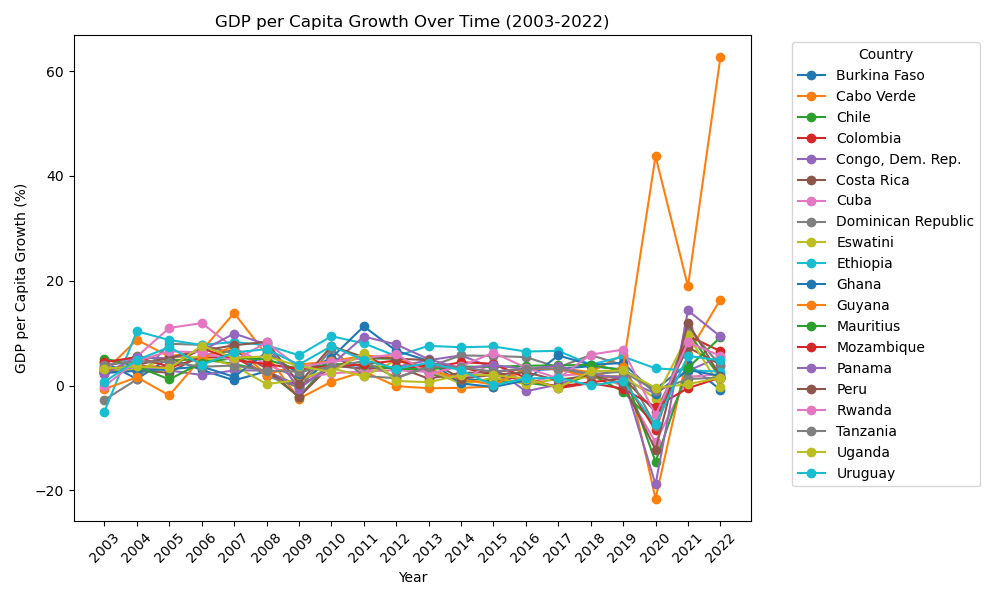
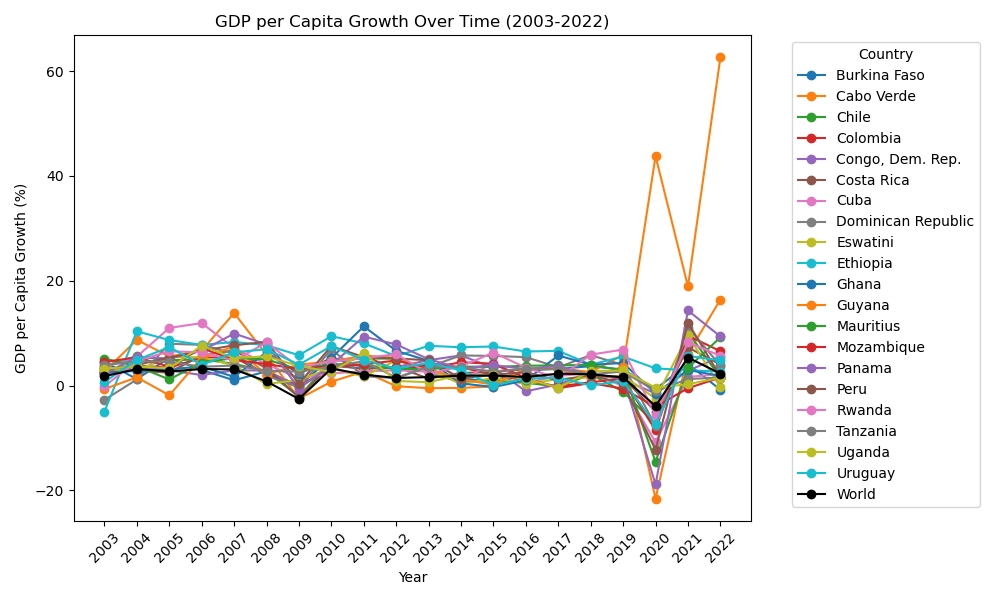
processing education data

diff --git a/scripts/process_enrollment.py b/scripts/process_enrollment.py
@@ -1,0 +1,115 @@
+import psycopg2
+import pandas as pd
+import matplotlib.pyplot as plt
+import os
+
+# Connect to the database
+conn = psycopg2.connect(
+        host='127.0.0.1',
+        port='5433',
+        database='postgres',
+        user='postgres',
+        password='tomas.36'
+    )
+cur = conn.cursor()
+
+years = range(2003, 2023)
+primary_cols = ",\n       ".join([f"COALESCE(MAX(CASE WHEN year = {y} THEN primary_enrollment END), ca.avg_primary) AS p{y}" for y in years])
+secondary_cols = ",\n       ".join([f"COALESCE(MAX(CASE WHEN year = {y} THEN secondary_enrollment END), ca.avg_secondary) AS s{y}" for y in years])
+
+final_query = f"""
+WITH country_avgs AS (
+    SELECT country_name,
+           AVG(primary_enrollment) AS avg_primary,
+           AVG(secondary_enrollment) AS avg_secondary
+    FROM education_data
+    WHERE year BETWEEN 2003 AND 2022
+    GROUP BY country_name
+)
+SELECT ed.country_name,
+       {primary_cols},
+       {secondary_cols}
+FROM education_data ed
+JOIN country_avgs ca ON ed.country_name = ca.country_name
+WHERE ed.year BETWEEN 2003 AND 2022
+GROUP BY ed.country_name, ca.avg_primary, ca.avg_secondary;
+"""
+
+cur.execute(final_query)
+rows = cur.fetchall()
+colnames = [desc[0] for desc in cur.description]
+
+# Convert to DataFrame
+df = pd.DataFrame(rows, columns=colnames)
+
+
+
+
+
+
+
+
+print(df, df.shape)
+
+
+# Determine how many years of data each country has.
+# A "year of data" is defined as having at least one non-null in pYYYY or sYYYY
+year_has_data = []
+for _, row in df.iterrows():
+    count = 0
+    for y in years:
+        p_col = f"p{y}"
+        s_col = f"s{y}"
+        # Check if at least one of pYYYY or sYYYY is non-null
+        if not (pd.isna(row[p_col]) and pd.isna(row[s_col])):
+            count += 1
+    year_has_data.append(count)
+
+df['years_of_data'] = year_has_data
+
+# Keep only countries with at least 15 years of data
+df = df[df['years_of_data'] >= 15].drop(columns='years_of_data')
+
+# 2. Forward fill missing values.
+# We need to forward fill along the timeline (2003 to 2022).
+# We'll do this separately for primary and secondary columns to avoid mixing them.
+
+primary_cols = [f"p{y}" for y in years]
+secondary_cols = [f"s{y}" for y in years]
+
+# Sort columns by year just to be sure they are in order (they likely are already)
+df = df[['country_name'] + primary_cols + secondary_cols]
+
+# Forward fill primary enrollment data row-wise
+# We'll apply a forward fill across columns for each row.
+def forward_fill_across_years(row, cols):
+    # We will iterate through the cols and if we find a NaN, fill with previous non-NaN
+    for i in range(1, len(cols)):
+        if pd.isna(row[cols[i]]):
+            row[cols[i]] = row[cols[i-1]]
+    return row
+
+df = df.apply(lambda r: forward_fill_across_years(r, primary_cols), axis=1)
+df = df.apply(lambda r: forward_fill_across_years(r, secondary_cols), axis=1)
+
+# The DataFrame now has forward-filled values for missing years, based on the previous year's value.
+
+# Note:
+# If the first year's data (e.g., p2003 or s2003) was missing, it won't get imputed since there's no previous year.
+# If you need to handle that case differently, you might consider dropping that country or using another imputation strategy.
+
+# At this point, 'df' contains only countries with >=15 years of data, and missing values within
+# those rows have been forward filled from previous years.
+
+# You can now proceed with additional analysis or saving the DataFrame.
+
+print(df)
+
+
+
+
+
+
+# Close the connection
+cur.close()
+conn.close()

diff --git a/scripts/get_growth_data.py b/scripts/get_growth_data.py
@@ -16,6 +16,7 @@ regions = ["SSF", "LCN"]  # Sub-Saharan Africa, Latin America & Caribbean
 # Get countries in Sub-Saharan Africa, Latin American and the Caribbean
 all_countries = get_countries()
 filtered_countries = [c['id'] for c in all_countries if c['region']['id'] in regions]
+filtered_countries.append('WLD')
 
 # Fetch data for the last 20 years for these countries using wbdata api
 data = wbdata.get_dataframe({indicator: 'value'}, country=filtered_countries, date=(datetime.datetime(start_year, 1, 1), datetime.datetime(end_year, 12, 31)))
@@ -30,10 +31,19 @@ data = data.apply(lambda row: row.fillna(row.mean()), axis=1)
 
 # Calculate the average growth over the time period for each country
 data['avg_growth_20yr'] = data.mean(axis=1)
+# Select the top 20 countries with the highest average growth, excluding 'WLD'
+top_20_df = data.drop('WLD', errors='ignore').nlargest(20, 'avg_growth_20yr')
 
-# Select the top 20 countries with the highest average growth and sort by the avg
-top_20_df = data.nlargest(20, 'avg_growth_20yr')
-top_20_df.sort_values(by = 'avg_growth_20yr', ascending=False, inplace=True)
+print(data)
+
+# Get 'WLD' data
+wld_data = data.loc[['World']]
+
+# Combine 'WLD' data with top 20 data
+top_20_df = pd.concat([top_20_df, wld_data])
+
+# Sort the DataFrame by 'avg_growth_20yr' in descending order
+top_20_df.sort_values(by='avg_growth_20yr', ascending=False, inplace=True)
 
 # Get the country code for the top 20 countries
 country_codes = {country['name']: country['id'] for country in all_countries}

diff --git a/scripts/growth_hist.py b/scripts/growth_hist.py
@@ -1,13 +1,22 @@
 import pandas as pd
-import os
 import matplotlib.pyplot as plt
 
+# Read the data
 data = pd.read_csv('data/gdp_growth_top20.csv')
+
+# Extract the global average (World)
+world_avg = data.loc[data['country'] == 'World', 'avg_growth_20yr'].values[0]
+
+# Filter out the 'World' row from the DataFrame so we only have the top 20 countries
+data_countries = data[data['country'] != 'World']
 
 fig, ax = plt.subplots(figsize=(12, 6))
 
-# Create a bar plot with countries on the x-axis and avg_growth_10yr on the y-axis
-ax.bar(data['country'], data['avg_growth_20yr'], color='skyblue')
+# Create a bar plot with countries on the x-axis and avg_growth_20yr on the y-axis
+ax.bar(data_countries['country'], data_countries['avg_growth_20yr'], color='skyblue')
+
+# Add a horizontal line at the global average
+ax.axhline(y=world_avg, color='red', linestyle='--', label=f'World Avg: {world_avg:.2f}%')
 
 # Rotate x-axis labels for better readability
 plt.xticks(rotation=45, ha='right')
@@ -15,7 +24,10 @@ plt.xticks(rotation=45, ha='right')
 # Add labels and title
 plt.xlabel('Country')
 plt.ylabel('Average GDP Growth (20-year)')
-plt.title('Top 20 Countries by Average GDP Per Capita Growth in Sub-Saharan Africa, Latin America and the Carribean')
+plt.title('Top 20 Countries by Average GDP Per Capita Growth vs. Global Average')
+
+# Add legend
+ax.legend()
 
 plt.tight_layout()
 

diff --git a/scripts/growth_linplot.py b/scripts/growth_linplot.py
@@ -4,7 +4,6 @@ import matplotlib.pyplot as plt
 growth_data = pd.read_csv('data/gdp_growth_top20.csv')
 growth_data.drop(columns=['country_code', 'avg_growth_20yr'], inplace=True)
 
-
 # Melt the DataFrame so that 'year' becomes a variable column and 'value' holds the gdp growth
 long_df = growth_data.melt(id_vars='country', var_name='year', value_name='gdp_growth')
 
@@ -15,10 +14,10 @@ long_df['year'] = long_df['year'].astype(int)
 fig, ax = plt.subplots(figsize=(10, 6))
 ax.tick_params(axis='x', rotation=45)
 
-
 # Group by country and plot each group's data
 for ctry, grp in long_df.groupby('country'):
-    ax.plot(grp['year'], grp['gdp_growth'], label=ctry, marker='o')
+    color = 'black' if ctry == 'World' else None
+    ax.plot(grp['year'], grp['gdp_growth'], label=ctry, marker='o', color=color)
 
 # Set x-axis ticks to integer years
 years = sorted(long_df['year'].unique())
